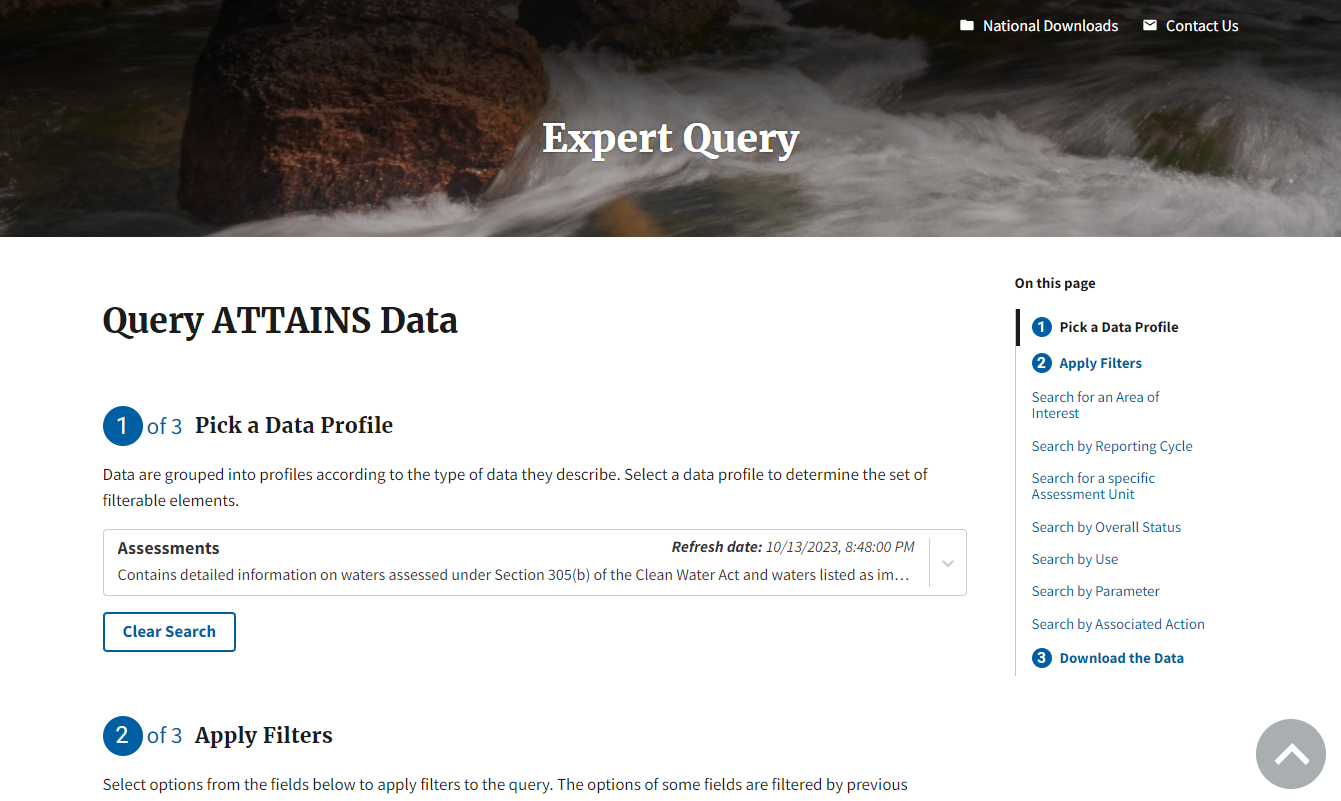
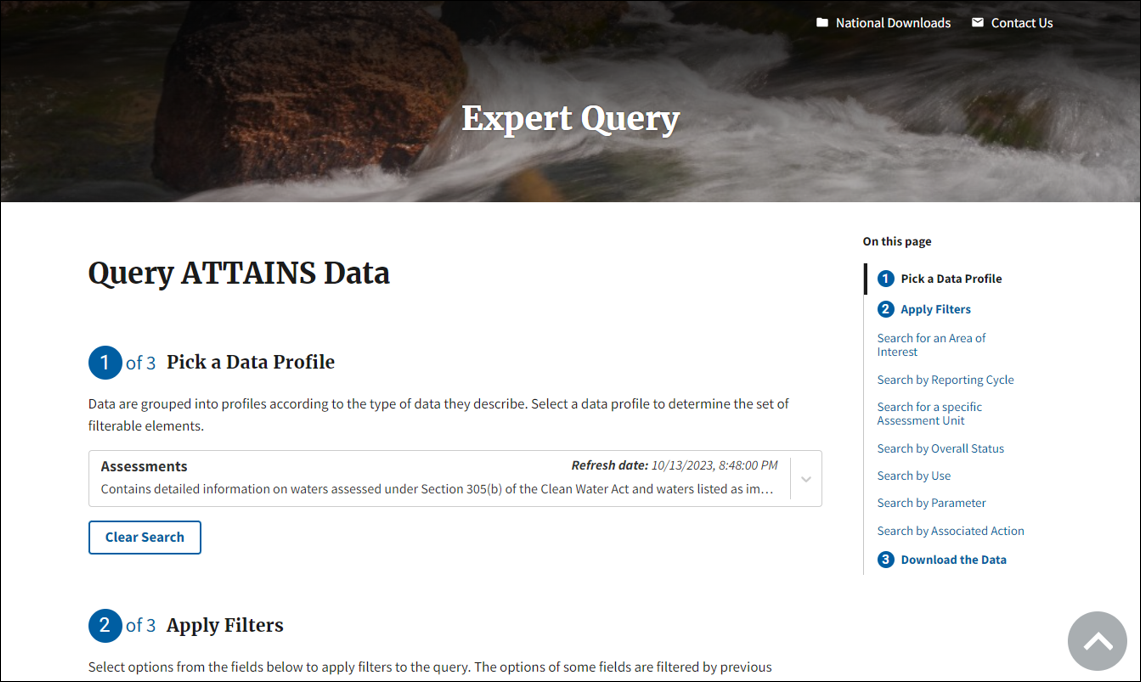
Updated readme image.

diff --git a/README.md b/README.md
@@ -4,9 +4,7 @@ Sections 303(d) and 305(b) of the Clean Water Act require states to submit water
 The Expert Query tool will provide the public, EPA, state, and tribal users the ability to view more detailed ATTAINS data than they can in [How’s My Waterway](https://mywaterway.epa.gov/). It will also allow users to download data on a national scale.
 
 <p align="center">
-      <kbd>
-            <img height="50%" width="50%" src="/docs/img/AttainsQueryPage.png" alt="Screenshot of Attains Query page">
-      </kbd>
+			<img height="50%" width="50%" src="/docs/img/AttainsQueryPage.png" alt="Screenshot of Attains Query page">
 </p>
 
 ## Documentation
